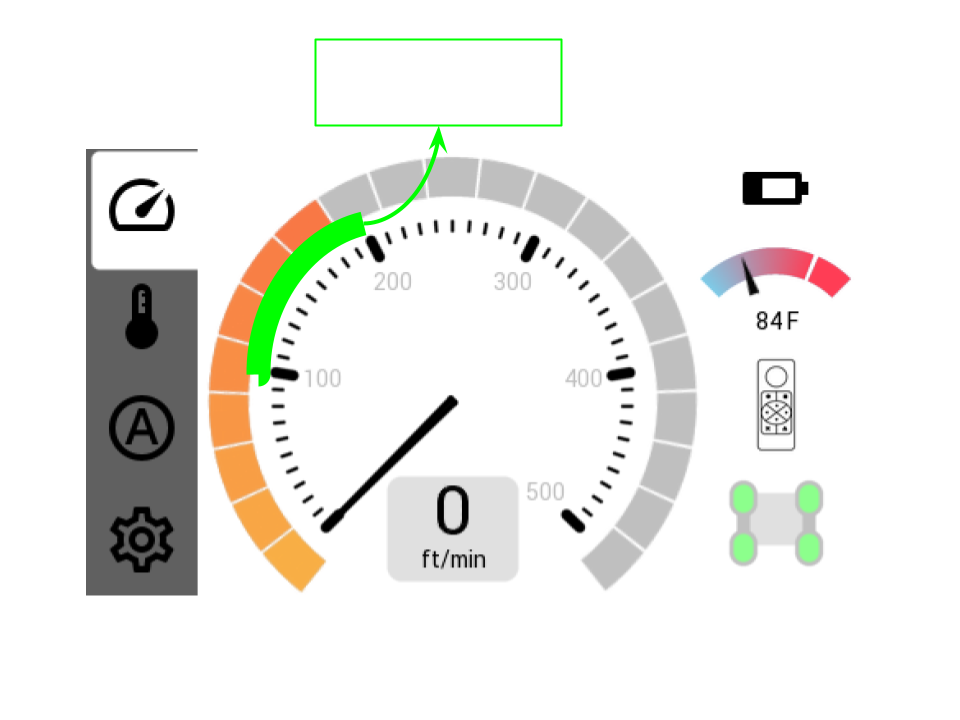
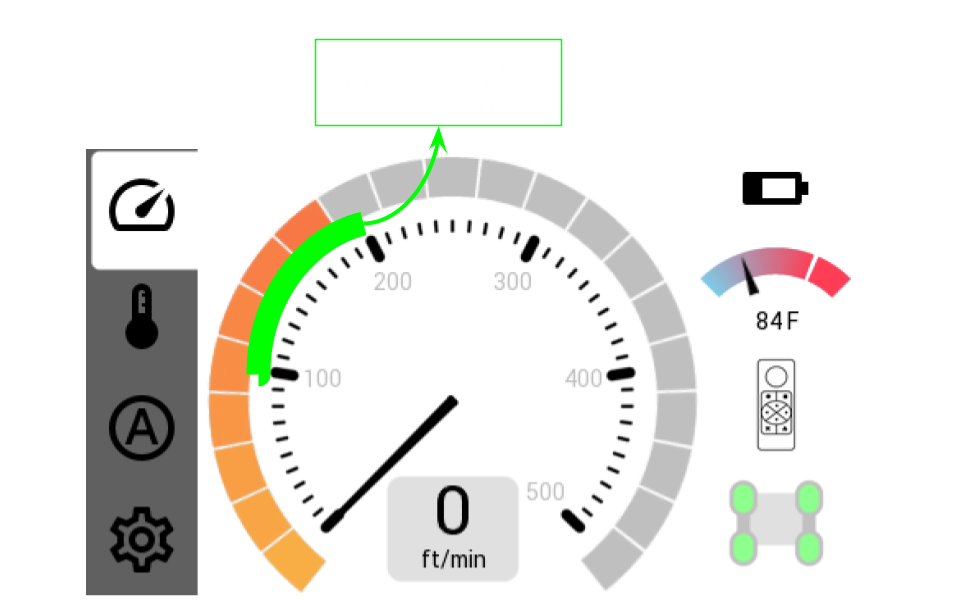
Fixed image cropping.

Changed region(s): [[0.0625, 0.1493, 0.9062, 1.0], [0.3125, 0.0299, 0.5938, 0.0896]]

diff --git a/docs/2. Hardware/Amiga/1- AmigaQSG.md b/docs/2. Hardware/Amiga/1- AmigaQSG.md
@@ -4,7 +4,7 @@ title: Quick Start Guide
 
 ## **Getting Started with the farm-ng Amiga**
 
-1. **Control the Amiga**
+1. **Control the Amiga.**
     - Go through the dashboard overview. We recommend getting 
 comfortable with the speed adjustment and e-stop configuration.
     - We recommend going 100 - 200 ft/min (the first 2 major ticks) to 
